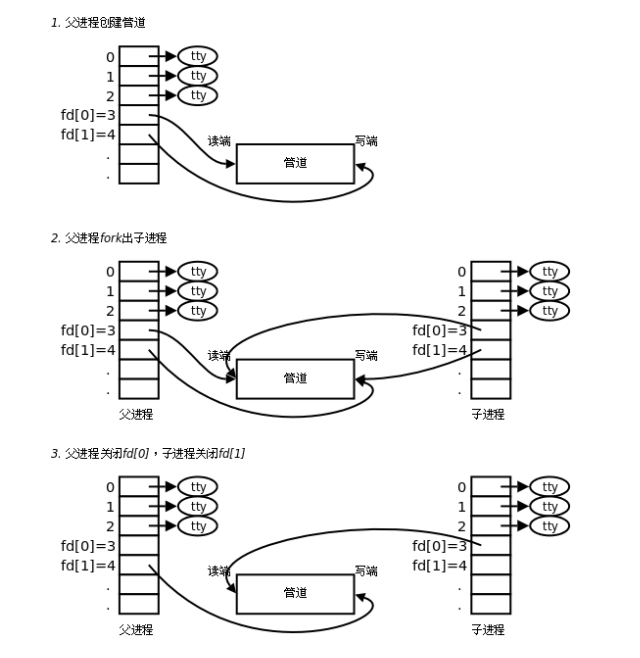
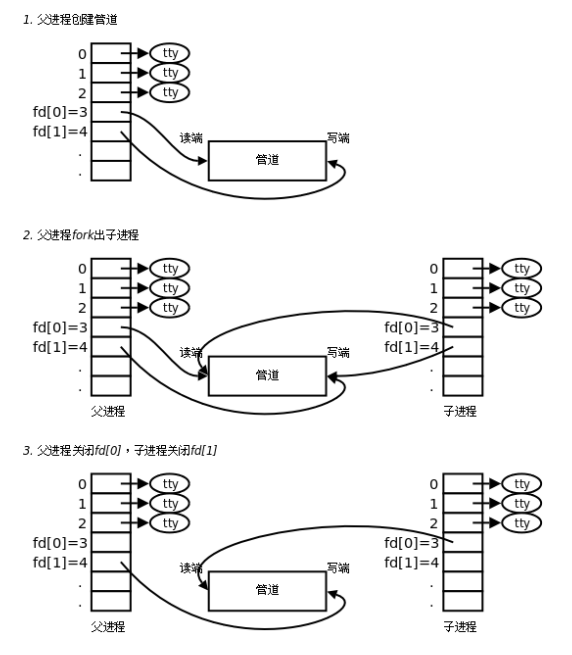
Site updated: 2021-06-29 00:49:49

diff --git a/2021/06/28/管道通信/index.html b/2021/06/28/管道通信/index.html
@@ -15,12 +15,14 @@
 <meta property="og:site_name" content="Blog of David Fish">
 <meta property="og:description" content="进程间通信Linux 环境下，进程地址空间相互独立，每个进程各自有不同的用户地址空间。任何一个进程的全局变量在另一个进程中都看不到，所以进程和进程之间不能相互访问，要交换数据必须通过内核，在内核中开辟一块缓冲区，进程 1 把数据从用户空间拷到内核缓冲区，进程 2 再从内核缓冲区把数据读走，内核提供的这种机制称为进程间通信（IPC，InterProcess Communication）。 在进程间完">
 <meta property="og:locale" content="en_US">
+<meta property="og:image" content="http://example.com/2021/06/28/%E7%AE%A1%E9%81%93%E9%80%9A%E4%BF%A1/pipe.png">
 <meta property="article:published_time" content="2021-06-28T06:45:10.000Z">
-<meta property="article:modified_time" content="2021-06-28T13:32:54.892Z">
+<meta property="article:modified_time" content="2021-06-28T16:49:37.032Z">
 <meta property="article:author" content="David Fish">
 <meta property="article:tag" content="linux">
 <meta property="article:tag" content="C++">
 <meta name="twitter:card" content="summary">
+<meta name="twitter:image" content="http://example.com/2021/06/28/%E7%AE%A1%E9%81%93%E9%80%9A%E4%BF%A1/pipe.png">
   
     <link rel="alternative" href="/atom.xml" title="Blog of David Fish" type="application/atom+xml">
   
@@ -183,14 +185,15 @@
 </ol>
 <h3 id="2-pipe函数"><a href="#2-pipe函数" class="headerlink" title="2.pipe函数"></a>2.pipe函数</h3><figure class="highlight c++"><table><tr><td class="gutter"><pre><span class="line">1</span><br><span class="line">2</span><br></pre></td><td class="code"><pre><span class="line"><span class="meta">#<span class="meta-keyword">include</span> <span class="meta-string">&lt;unistd.h&gt;</span></span></span><br><span class="line"><span class="function"><span class="keyword">int</span> <span class="title">pipe</span><span class="params">(<span class="keyword">int</span> filedes[<span class="number">2</span>])</span></span>; # 成功： <span class="number">0</span>；失败： <span class="number">-1</span>，设置 errno</span><br></pre></td></tr></table></figure>
 <p>函数调用成功返回 r/w 两个文件描述符。无需 open，但需手动 close。规定： fd[0] → r； fd[1] → w，就像 0 对应标准输入， 1 对应标准输出一样。 向管道文件读写数据其实是在读写内核缓冲区。</p>
-<p>管道创建成功以后， 创建该管道的进程（父进程） 同时掌握着管道的读端和写端。 如何实现父子进程间通信呢？<br>通常可以采用如下步骤：</p>
-
+<p>管道创建成功以后， 创建该管道的进程（父进程） 同时掌握着管道的读端和写端。 如何实现父子进程间通信呢？<br>通常可以采用如下步骤：<br><img src="pipe.png"></p>
 <ol>
 <li>父进程调用 pipe 函数创建管道，得到两个文件描述符 fd[0]、 fd[1]指向管道的读端和写端。</li>
 <li>父进程调用 fork 创建子进程，那么子进程也有两个文件描述符指向同一管道。</li>
 <li>父进程关闭管道读端，子进程关闭管道写端。父进程可以向管道中写入数据，子进程将管道中的数据读出。<br>由于管道是利用环形队列实现的，数据从写端流入管道，从读端流出，这样就实现了进程间通信。</li>
 </ol>
-<h4 id="案例1："><a href="#案例1：" class="headerlink" title="案例1："></a>案例1：</h4><h3 id=""><a href="#" class="headerlink" title=""></a></h3>
+<h4 id="案例1：pipe的简单使用"><a href="#案例1：pipe的简单使用" class="headerlink" title="案例1：pipe的简单使用"></a>案例1：pipe的简单使用</h4><figure class="highlight c++"><figcaption><span>pipe.c</span></figcaption><table><tr><td class="gutter"><pre><span class="line">1</span><br><span class="line">2</span><br><span class="line">3</span><br><span class="line">4</span><br><span class="line">5</span><br><span class="line">6</span><br><span class="line">7</span><br><span class="line">8</span><br><span class="line">9</span><br><span class="line">10</span><br><span class="line">11</span><br><span class="line">12</span><br><span class="line">13</span><br><span class="line">14</span><br><span class="line">15</span><br><span class="line">16</span><br><span class="line">17</span><br><span class="line">18</span><br><span class="line">19</span><br><span class="line">20</span><br><span class="line">21</span><br><span class="line">22</span><br><span class="line">23</span><br><span class="line">24</span><br><span class="line">25</span><br><span class="line">26</span><br><span class="line">27</span><br><span class="line">28</span><br><span class="line">29</span><br><span class="line">30</span><br><span class="line">31</span><br><span class="line">32</span><br><span class="line">33</span><br><span class="line">34</span><br><span class="line">35</span><br><span class="line">36</span><br><span class="line">37</span><br><span class="line">38</span><br><span class="line">39</span><br></pre></td><td class="code"><pre><span class="line"><span class="meta">#<span class="meta-keyword">include</span> <span class="meta-string">&lt;stdio.h&gt;</span></span></span><br><span class="line"><span class="meta">#<span class="meta-keyword">include</span> <span class="meta-string">&lt;stdlib.h&gt;</span></span></span><br><span class="line"><span class="meta">#<span class="meta-keyword">include</span> <span class="meta-string">&lt;unistd.h&gt;</span></span></span><br><span class="line"><span class="meta">#<span class="meta-keyword">include</span> <span class="meta-string">&lt;errno.h&gt;</span></span></span><br><span class="line"><span class="meta">#<span class="meta-keyword">include</span> <span class="meta-string">&lt;pthread.h&gt;</span></span></span><br><span class="line"><span class="meta">#<span class="meta-keyword">include</span> <span class="meta-string">&lt;string.h&gt;</span></span></span><br><span class="line"></span><br><span class="line"><span class="function"><span class="keyword">void</span> <span class="title">sys_err</span><span class="params">(<span class="keyword">char</span> *str)</span> </span>&#123;</span><br><span class="line">    <span class="built_in">perror</span>(str);</span><br><span class="line">    <span class="built_in">exit</span>(<span class="number">1</span>);</span><br><span class="line">&#125;</span><br><span class="line"></span><br><span class="line"><span class="function"><span class="keyword">int</span> <span class="title">main</span><span class="params">()</span></span></span><br><span class="line"><span class="function"></span>&#123;</span><br><span class="line">    <span class="keyword">int</span> fd[<span class="number">2</span>]; <span class="comment">// 0读 1写</span></span><br><span class="line">    <span class="keyword">if</span> (<span class="built_in">pipe</span>(fd) == <span class="number">-1</span>) &#123;</span><br><span class="line">        <span class="built_in">perror</span>(<span class="string">&quot;pipe error&quot;</span>);</span><br><span class="line">    &#125;</span><br><span class="line">    <span class="keyword">pid_t</span> pid = fork();</span><br><span class="line">    <span class="keyword">if</span> (pid &gt; <span class="number">0</span>) &#123;</span><br><span class="line">        <span class="comment">// 父进程关闭读端</span></span><br><span class="line">        <span class="built_in">printf</span>(<span class="string">&quot;%s\n&quot;</span>, <span class="string">&quot;父进程&quot;</span>);</span><br><span class="line">        <span class="built_in">close</span>(fd[<span class="number">0</span>]);</span><br><span class="line">        <span class="keyword">char</span> *msg = <span class="string">&quot;Hello World\n&quot;</span>;</span><br><span class="line">        <span class="built_in">write</span>(fd[<span class="number">1</span>], msg, <span class="built_in">strlen</span>(msg));</span><br><span class="line">        <span class="built_in">sleep</span>(<span class="number">1</span>); <span class="comment">// 防止父进程提前退出</span></span><br><span class="line">        <span class="built_in">close</span>(fd[<span class="number">1</span>]);</span><br><span class="line">    &#125; <span class="keyword">else</span> &#123;</span><br><span class="line">        <span class="comment">// 子进程关闭写端</span></span><br><span class="line">        <span class="built_in">printf</span>(<span class="string">&quot;%s\n&quot;</span>, <span class="string">&quot;子进程&quot;</span>);</span><br><span class="line">        <span class="built_in">close</span>(fd[<span class="number">1</span>]);</span><br><span class="line">        <span class="keyword">char</span> buf[<span class="number">1024</span>];</span><br><span class="line">        <span class="keyword">int</span> ret = <span class="built_in">read</span>(fd[<span class="number">0</span>], buf, <span class="built_in"><span class="keyword">sizeof</span></span>(buf));</span><br><span class="line">        <span class="built_in">write</span>(STDOUT_FILENO, buf, ret);</span><br><span class="line">        <span class="built_in">close</span>(fd[<span class="number">0</span>]);</span><br><span class="line">    &#125;</span><br><span class="line"></span><br><span class="line">    <span class="keyword">return</span> <span class="number">0</span>;</span><br><span class="line">&#125;</span><br></pre></td></tr></table></figure>
+
+<h3 id=""><a href="#" class="headerlink" title=""></a></h3>
       
 
       

diff --git a/2021/06/28/管道通信/pipe.c b/2021/06/28/管道通信/pipe.c
@@ -1,0 +1,39 @@
+#include <stdio.h>
+#include <stdlib.h>
+#include <unistd.h>
+#include <errno.h>
+#include <pthread.h>
+#include <string.h>
+
+void sys_err(char *str) {
+    perror(str);
+    exit(1);
+}
+
+int main()
+{
+    int fd[2]; // 0读 1写
+    if (pipe(fd) == -1) {
+        perror("pipe error");
+    }
+    pid_t pid = fork();
+    if (pid > 0) {
+        // 父进程关闭读端
+        printf("%s\n", "父进程");
+        close(fd[0]);
+        char *msg = "Hello World\n";
+        write(fd[1], msg, strlen(msg));
+        sleep(1); // 防止父进程提前退出
+        close(fd[1]);
+    } else {
+        // 子进程关闭写端
+        printf("%s\n", "子进程");
+        close(fd[1]);
+        char buf[1024];
+        int ret = read(fd[0], buf, sizeof(buf));
+        write(STDOUT_FILENO, buf, ret);
+        close(fd[0]);
+    }
+
+    return 0;
+}
